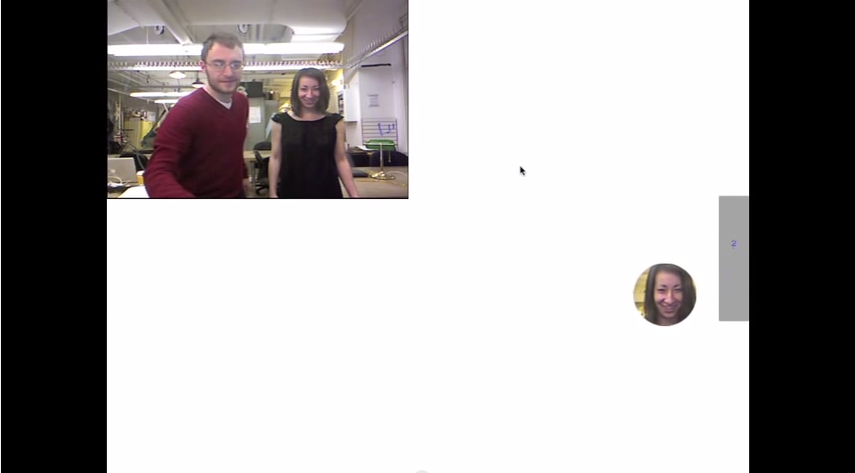
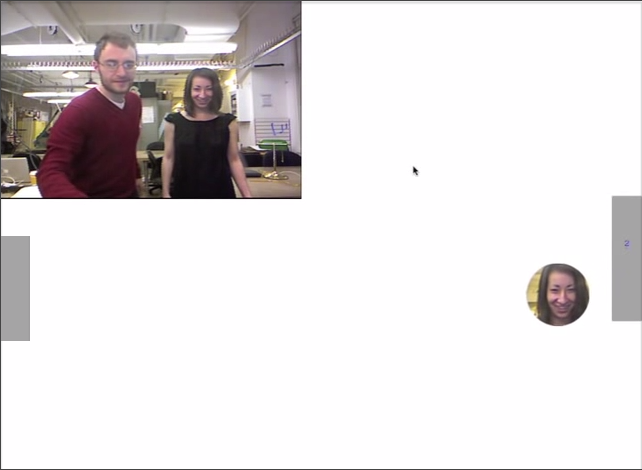
hover at its best

diff --git a/assets/style.less b/assets/style.less
@@ -2,6 +2,7 @@
 @import 'less/preboot.less';
 
 @body-background: #FDFDFD;
+// @body-background: gray;
 
 @font-size-base: 16px;
 
@@ -90,10 +91,13 @@ body {
 a.thumb_image
 {
 	width: 24%;
-  // height: 300px;
-	min-height: 200px;
-	// margin: 1% 0.5%;
-	background-size: cover;
+
+  // background-size: cover;
+  // height: 30vh;
+	// min-height: 200px;
+  // margin: 1% 0.5%;
+	margin: 3% 3%;
+
 	float: left;
 	display: block;
 
@@ -108,38 +112,27 @@ a.thumb_image
 a.page_link_thumb_a
 {
   background-position: initial;
+  height: 220px;
+  width: 280px;
+  // background-position: 50% 50%;
   // width: 49%; // needed when not using the cool-hover shit
-  width: 50%;
+  // width: 50%;
   // height: 400px;
   // background-size: contain;
   background-repeat: no-repeat;
 
-  position: relative; // so we can pos abs in the span
+  // position: relative; // so we can pos abs in the span
 
   margin-left: (0-@cool-hover-border-size);
+  margin-top: (0-@cool-hover-border-size);
+
+  &:hover {
+
+  }
 
   span {
-    position: absolute;
-    text-align: center;
-    width: 100%;
-    background-color: rgba(0, 0, 0, .80);
-    color: white;
-    font-family: 'Open Sans', sans-serif;
-    padding: 3px 0;
-    left: 0px;
-
-    bottom: (0-@cool-hover-border-size);
-    -webkit-transition: 0.5s ease;
+    display: none;
   }
-
-  &:hover span {
-    bottom: 0px;
-    left: 0px;
-    // -webkit-transition: 0.5s ease;
-
-
-  }
-
 
 }
 
@@ -158,11 +151,6 @@ a.page_link_thumb_a
   border-width: @cool-hover-border-size;
 
   border-color: rgba(0,0,0,0);
-
-
-  // border-radius: 100%;
-  // -moz-border-radius: 100%;
-  // -webkit-border-radius: 100%;
 
   -webkit-box-sizing: border-box;
   -moz-box-sizing: border-box;

diff --git a/content/work/best_and_worst.md b/content/work/best_and_worst.md
@@ -1,0 +1,8 @@
+---
+title: Bloomberg Best (and Worst)
+key: value
+media: bestandworst.png
+---
+
+
+s

diff --git a/content/work/squares.md b/content/work/squares.md
@@ -1,0 +1,8 @@
+---
+title: Squares
+key: value
+media: squares.png
+---
+
+
+s
